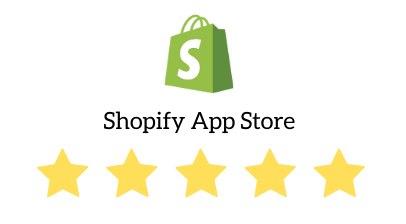
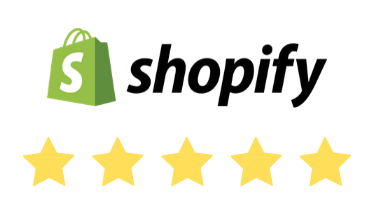
change review image

Changed region(s): [[0.1183, 0.0569, 0.8871, 0.5972], [0.414, 0.654, 0.9462, 0.8815], [0.0591, 0.654, 0.3844, 0.8815]]

diff --git a/index.html b/index.html
@@ -86,13 +86,27 @@
     <!--  button to shopify app page -->
     <!-- on the right shopify banner -->
     <!-- there is a double of the same text added the first is for normal screens the second is for mobile -->
-    <header class="header header-hero" style="padding-bottom: 0px">
+    <header class="header header-hero" style="padding-bottom: 50px">
       <div class="container text-center">
         <div class="row h-full">
           <div class="col-12 col-lg-6 align-self-center text-center text-lg-left">
             <h1 class="display-1 font header-hero">Shopify Inventory Management</h1>
             <p class="fs-20 w-600 mx-auto">With Stock Sync you can update your existing products as well as adding/removing products with a one-time simple setup</p>
-            <a class="btn btn-xl btn-round btn-success fs-20 fw-500 shadow-3 mt-40" href="http://bit.ly/landingtostocksync" target="_blank">Get Started Now!</a>
+            <div class="container" style="margin-bottom: 40px">
+              <div class="row">
+                <div class="col-md-4 align-self-center captera">
+                  <a href="https://apps.shopify.com/stock-sync#reviews" target="_blank">
+                    <img border='0' src="assets/img/review.png" style="height: 70px" />
+                  </a>
+                </div> 
+                <div class="col-md-4 align-self-center captera">
+                  <a href='https://www.capterra.com/reviews/174977/Stock-Sync?utm_source=vendor&utm_medium=badge&utm_campaign=capterra_reviews_badge' target="_blank"> 
+                    <img border='0' src='https://assets.capterra.com/badge/2a0ee6da88f4a3c642ed14cea9fa9ce3.png?v=2121535&p=174977' style="height: 70px" />
+                  </a>
+                </div>
+              </div>
+            </div>
+            <a class="btn btn-xl btn-round btn-success fs-20 fw-500 shadow-3" href="http://bit.ly/landingtostocksync" target="_blank">Get Started Now!</a>
             <p class="hidden-sm-down" style="color: black; margin-left: 63px">No credit card required</p>
             <a class="hidden-sm-down try-and-start" href="http://bit.ly/landingtoshopify" target="_blank">Don't have a Shopify store? Get started here</a>
           </div>
@@ -101,23 +115,14 @@
           </div>
         </div>
       </div>
+      <div class="text-center">
+        <div class="col hidden-sm-down">
+          <a class="scroll-down-2"><span></span></a>
+        </div>
+      </div>
     </header>
     
     <div class="space space_text_below_header"></div>
-    <div class="container" style="margin-bottom: 40px">
-      <div class="row pb-40">
-        <div class="col-md-6 align-self-center captera">
-          <a href="https://apps.shopify.com/stock-sync#reviews" target="_blank">
-            <img border='0' src="assets/img/review.png" style="height: 130px" />
-          </a>
-        </div> 
-        <div class="col-md-6 align-self-center captera">
-          <a href='https://www.capterra.com/reviews/174977/Stock-Sync?utm_source=vendor&utm_medium=badge&utm_campaign=capterra_reviews_badge' target="_blank"> 
-            <img border='0' src='https://assets.capterra.com/badge/2a0ee6da88f4a3c642ed14cea9fa9ce3.png?v=2121535&p=174977' style="height: 130px" />
-          </a>
-        </div>
-      </div>
-    </div>
 
     <div class="col-12 text-center" style="padding-right:15px; padding-left: 15px;">
       <p class="lead">Tired of managing your inventories from various vendors? Looking for a solution that saves you hours of tedious work?</p>

diff --git a/assets/css/styling_for_index.css b/assets/css/styling_for_index.css
@@ -473,6 +473,5 @@ canvas.constellation {
 }
 
 .captera {
-  text-align: center;
-  margin-bottom: 16px;
+  padding: 0;
 }
